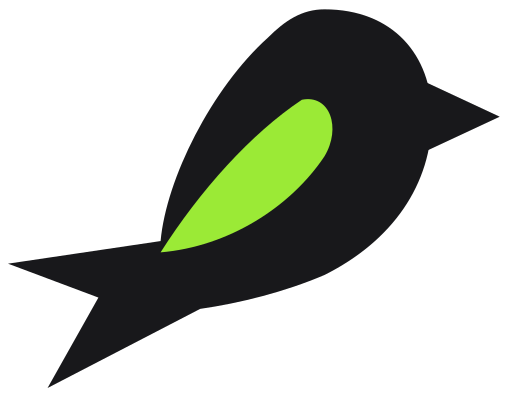
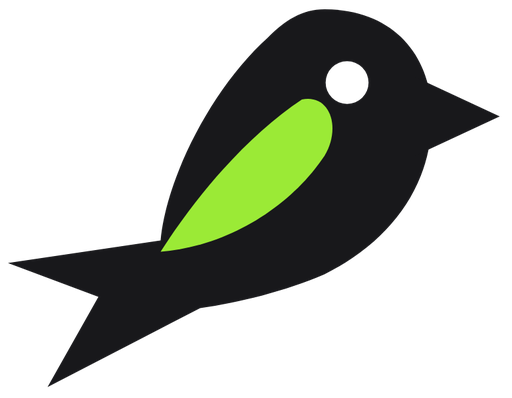
docs(sparrow): the drift guard's scope is MAP, not the three modules it named (#3080)
* docs(sparrow): the drift guard's scope is MAP, not the three modules it named

Both docstrings described a three-module world (task_archive, local_task_protocol,
result_markers) and said the transport modules "intentionally diverge". MAP has
grown to 14 entries, and two of them are outbox.py and its transport seam
outbox_adapter.py.

Read on its own, the docstring says outbox is NOT covered by the drift guard. The
opposite is true: `sync_from_src.py --check` fails on outbox drift, which is
mutation-verifiable — append a line to the package copy and --check returns 1
naming outbox.py.

This is not hypothetical. Auditing the guard ahead of the Delivery Core Phase 2
work, I concluded from these docstrings that outbox was unguarded and was about to
report a coverage gap that does not exist. Reading MAP is what corrected it.

Both now point at MAP as the authority and describe the divergent set by exclusion,
so the sentence stops competing with the code for the answer. Count derived from
MAP rather than typed.

* fix(sparrow): the mark's eye knockout survives rasterization

The kit's PNGs flattened the SVG <mask> (eye pixels solid body-color,
zero transparency in the head — measured), so the README bird rendered
eyeless. Masks are exactly what exporters and sanitizers mishandle;
the eye is now a real even-odd hole (circle subpath in the head path,
fill-rule=evenodd), and the PNGs are re-rendered from that geometry
(verified: ~1370 transparent px at the eye in both marks).
[…]

Changed region(s): [[0.625, 0.1508, 0.7188, 0.2714]]

diff --git a/packages/ag2-sparrow/tools/sync_from_src.py b/packages/ag2-sparrow/tools/sync_from_src.py
@@ -1,10 +1,16 @@
 #!/usr/bin/env python3
 """Regenerate the package modules from the canonical sutando src/ (single source).
 
-MAP below is the authority for what is bundled — src-canonical modules are copied
-verbatim from sonichi/sutando `src/` (option A). Package-canonical modules
-(remote_gateway_bridge, _dirs, send_allowlist) are absent from MAP and
-intentionally diverge from src (dir-interface, no workspace-resolution).
+Everything in MAP below is bundled verbatim from sonichi/sutando `src/`, which is
+canonical for those modules — currently 14 of them, including outbox.py and its
+transport seam outbox_adapter.py. Only the modules NOT in MAP are package-canonical
+and intentionally diverge from src (remote_gateway_bridge, _dirs, send_allowlist:
+dir-interface, no workspace-resolution).
+
+MAP is the authority on which is which. This docstring named three modules for a
+long time after MAP grew past them, so it read as "outbox is not covered" — the
+opposite of what --check does. When you add an entry, the count above is the only
+thing here that needs updating; better still, read MAP.
 
 The relay client lives canonically in sonichi/sutando `src/` (the core
 runs it directly). This package is a *distribution* of those exact files — never

diff --git a/tests/ag2-sparrow-drift.test.py b/tests/ag2-sparrow-drift.test.py
@@ -1,8 +1,11 @@
 #!/usr/bin/env python3
-"""CI guard: the ag2-sparrow package's bundled modules must stay in sync with
-their canonical src/ source (option A). Which modules those are is MAP in
-sync_from_src.py, never a list restated here; modules absent from MAP are
-package-canonical and intentionally diverge.
+"""CI guard: every module the package bundles from src/ must stay in sync with it.
+
+The bundled set is `MAP` in tools/sync_from_src.py — 14 modules today, including
+outbox.py and outbox_adapter.py. Only what is NOT in MAP is package-canonical and
+intentionally divergent (remote_gateway_bridge, _dirs, send_allowlist). This
+docstring used to name three modules, which read as "outbox is not covered" long
+after MAP had grown; the guard's actual scope is MAP, not this sentence.
 
 This lives under tests/ so the repo's test discovery
 (`find tests -name '*.test.py'`, package.json) actually runs it — the package's
